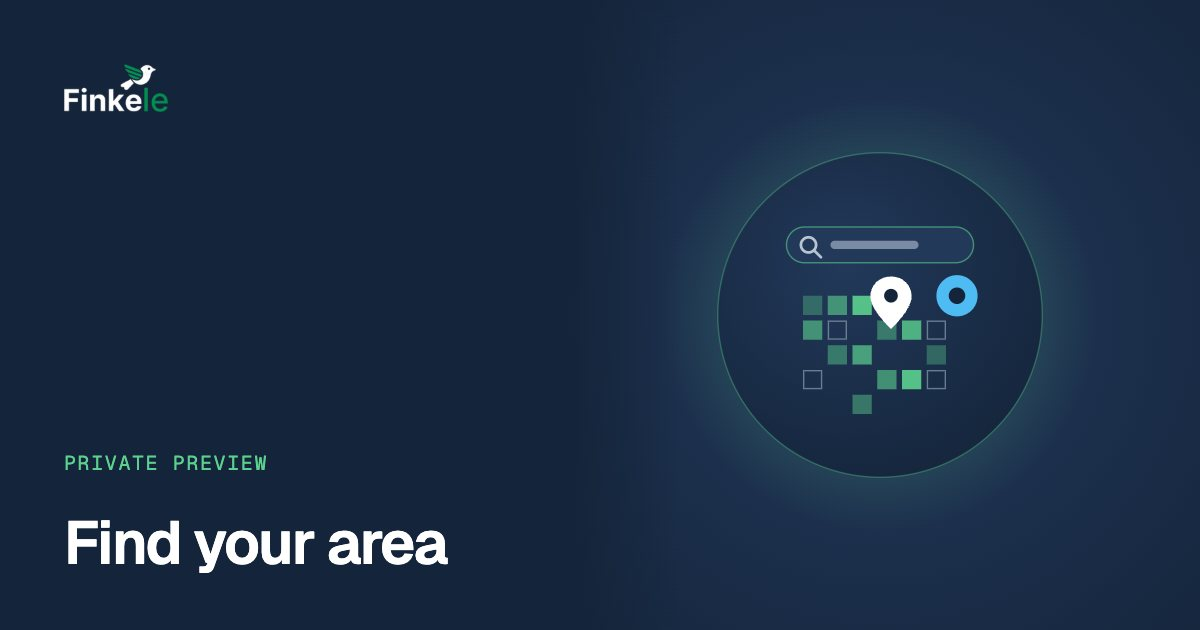
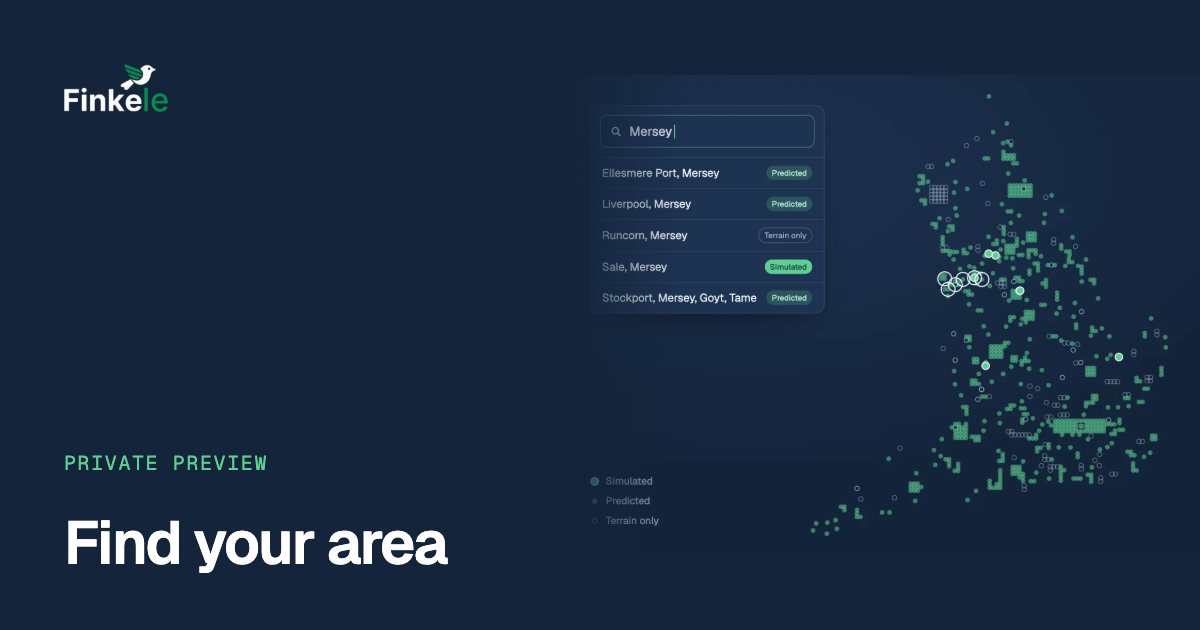
WEB-6: redraw the site illustrations without unsourced figures
tile-api now shows POST /assess with placeholder values. The rainfall
scenarios, live forecasts and AI assistants spots lose their figures; the
API spot shows POST /assess. New tiles for rainfall scenarios (two
Chesterfield solver runs), live forecasts (two Bradford forecast issues),
AI assistants (the MCP reading with placeholders) and find your area
(every registered area by status, no basemap), plus a data-drawn
find-your-area spot. tile-depth-maps and tile-replays use the platform's
depth colours instead of a duotone. Product pages and seven social
images regenerated to match.

diff --git a/public/product/rainfall-scenarios/index.html b/public/product/rainfall-scenarios/index.html
@@ -40,6 +40,7 @@
                 <ul class="nav-links">
                     <li><a href="../../" class="nav-link">Home</a></li>
                     <li><a href="../../#products" class="nav-link is-active" aria-current="true">Products</a></li>
+                    <li><a href="../../#research" class="nav-link">Research</a></li>
                     <li><a href="../../#how" class="nav-link">How it works</a></li>
                     <li><a href="../../#awards" class="nav-link">Awards</a></li>
                     <li><a href="../../#contact" class="nav-link">Contact</a></li>
@@ -73,11 +74,11 @@
                     </div>
                 </div>
                 <figure class="page-visual">
-                    <div class="product-media product-media--spot">
-                        <img src="../../assets/img/visuals/spot-rainfall-scenarios.svg" alt="A chart of peak depth at one place against the rainfall multiple, from 0.2 to 6 times: each dot a solver run, rising as the rain increases." width="320" height="320" fetchpriority="high" decoding="async">
+                    <div class="product-media is-final">
+                        <img src="../../assets/img/visuals/tile-rainfall-scenarios.webp" alt="Two maps of the same square of ground side by side under a rainfall slider: with less rain, thin blue lines of water; with more rain, most of the square under water, darker blue where it is deeper." width="1200" height="900" fetchpriority="high" decoding="async">
                     </div>
                     <figcaption>
-                        <p><strong>Illustration.</strong> Peak depth at one cell in Chesterfield across the area's solver runs, against the rainfall multiple. Each dot is one run; the runs also vary the storm's length and timing, so the line has small kinks.</p>
+                        <p><strong>Chesterfield, two of the area's solver runs.</strong> Peak depth over the same square of ground from a run near the bottom of the rainfall range (left) and one near the top (right), drawn in the platform's depth colours. The runs also differ a little in the storm's length and timing.</p>
                         <p class="film-credit">Contains Environment Agency information © Environment Agency and/or database right 2026. Flood simulation: LISFLOOD-FP (LISFLOOD-FP developers).</p>
                     </figcaption>
                 </figure>
@@ -233,6 +234,7 @@
                 <h2 class="footer-heading" id="f-company">Company</h2>
                 <ul role="list">
                     <li><a href="../../#technology">Technology</a></li>
+                    <li><a href="../../research.html">Research</a></li>
                     <li><a href="../../#awards">Awards</a></li>
                     <li><a href="mailto:june.soh@finkele.com?subject=Demo%20Request">Book a demo</a></li>
                     <li><a href="mailto:june.soh@finkele.com">Contact</a></li>

diff --git a/public/product/live-forecasts/index.html b/public/product/live-forecasts/index.html
@@ -40,6 +40,7 @@
                 <ul class="nav-links">
                     <li><a href="../../" class="nav-link">Home</a></li>
                     <li><a href="../../#products" class="nav-link is-active" aria-current="true">Products</a></li>
+                    <li><a href="../../#research" class="nav-link">Research</a></li>
                     <li><a href="../../#how" class="nav-link">How it works</a></li>
                     <li><a href="../../#awards" class="nav-link">Awards</a></li>
                     <li><a href="../../#contact" class="nav-link">Contact</a></li>
@@ -73,11 +74,11 @@
                     </div>
                 </div>
                 <figure class="page-visual">
-                    <div class="product-media product-media--spot">
-                        <img src="../../assets/img/visuals/spot-live-forecasts.svg" alt="Two lines of forecast rainfall building up over time, one from an earlier forecast issue and one from a later one." width="320" height="320" fetchpriority="high" decoding="async">
+                    <div class="product-media is-final">
+                        <img src="../../assets/img/visuals/tile-live-forecasts.webp" alt="A chart of forecast rain building up over two days: a dashed line from an earlier forecast issue and a solid line from a later one, with the later issue's hourly rain as bars and a marker at each issue time." width="1200" height="900" fetchpriority="high" decoding="async">
                     </div>
                     <figcaption>
-                        <p><strong>Illustration.</strong> The rainfall forecast for Bradford from two issues on 23 October 2026, at 08:00 and 11:00 UTC. A newer issue changes the forecast, which is why each run will show when its rainfall forecast was issued.</p>
+                        <p><strong>Illustration.</strong> Rain building up over two days at Bradford, from two issues of the same forecast on 23 October 2026, at 08:00 and 11:00 UTC. The newer issue changed the forecast, which is why each run will show when its rainfall forecast was issued. Rain, not depth.</p>
                         <p class="film-credit">Rainfall forecast: weather data by Open-Meteo.com, <a href="https://creativecommons.org/licenses/by/4.0/" rel="noopener">CC-BY 4.0</a>.</p>
                     </figcaption>
                 </figure>
@@ -236,6 +237,7 @@
                 <h2 class="footer-heading" id="f-company">Company</h2>
                 <ul role="list">
                     <li><a href="../../#technology">Technology</a></li>
+                    <li><a href="../../research.html">Research</a></li>
                     <li><a href="../../#awards">Awards</a></li>
                     <li><a href="mailto:june.soh@finkele.com?subject=Demo%20Request">Book a demo</a></li>
                     <li><a href="mailto:june.soh@finkele.com">Contact</a></li>

diff --git a/public/product/flood-depth-maps/index.html b/public/product/flood-depth-maps/index.html
@@ -40,6 +40,7 @@
                 <ul class="nav-links">
                     <li><a href="../../" class="nav-link">Home</a></li>
                     <li><a href="../../#products" class="nav-link is-active" aria-current="true">Products</a></li>
+                    <li><a href="../../#research" class="nav-link">Research</a></li>
                     <li><a href="../../#how" class="nav-link">How it works</a></li>
                     <li><a href="../../#awards" class="nav-link">Awards</a></li>
                     <li><a href="../../#contact" class="nav-link">Contact</a></li>
@@ -74,10 +75,10 @@
                 </div>
                 <figure class="page-visual">
                     <div class="product-media is-final">
-                        <img src="../../assets/img/visuals/tile-depth-maps.webp" alt="A map of Exeter city centre in dark blue, with water in lighter blue along the river and through the streets." width="1200" height="900" fetchpriority="high" decoding="async">
+                        <img src="../../assets/img/visuals/tile-depth-maps.webp" alt="A map of Exeter city centre on pale grey ground with grey buildings, water in blue along the river and through the streets, darker where it is deeper." width="1200" height="900" fetchpriority="high" decoding="async">
                     </div>
                     <figcaption>
-                        <p><strong>Illustration.</strong> Water depth in Exeter city centre at 14:15 on 17 September 2023, from one LISFLOOD-FP solver run, drawn in the map's style: lighter for shallow water, darker for deep. A delivered map is the model's peak depth for your area.</p>
+                        <p><strong>Illustration.</strong> Water depth in Exeter city centre at 14:15 on 17 September 2023, from one LISFLOOD-FP solver run, drawn in the platform's depth colours: lighter blue for shallow water, darker for deep. A delivered map is the model's peak depth for your area.</p>
                         <p class="film-credit">Contains Environment Agency information © Environment Agency and/or database right 2026. Contains OS data © Crown copyright and database right 2026. Flood simulation: LISFLOOD-FP (LISFLOOD-FP developers).</p>
                     </figcaption>
                 </figure>
@@ -248,6 +249,7 @@
                 <h2 class="footer-heading" id="f-company">Company</h2>
                 <ul role="list">
                     <li><a href="../../#technology">Technology</a></li>
+                    <li><a href="../../research.html">Research</a></li>
                     <li><a href="../../#awards">Awards</a></li>
                     <li><a href="mailto:june.soh@finkele.com?subject=Demo%20Request">Book a demo</a></li>
                     <li><a href="mailto:june.soh@finkele.com">Contact</a></li>

diff --git a/public/product/ai-assistants/index.html b/public/product/ai-assistants/index.html
@@ -40,6 +40,7 @@
                 <ul class="nav-links">
                     <li><a href="../../" class="nav-link">Home</a></li>
                     <li><a href="../../#products" class="nav-link is-active" aria-current="true">Products</a></li>
+                    <li><a href="../../#research" class="nav-link">Research</a></li>
                     <li><a href="../../#how" class="nav-link">How it works</a></li>
                     <li><a href="../../#awards" class="nav-link">Awards</a></li>
                     <li><a href="../../#contact" class="nav-link">Contact</a></li>
@@ -73,12 +74,11 @@
                     </div>
                 </div>
                 <figure class="page-visual">
-                    <div class="product-media product-media--spot">
-                        <img src="../../assets/img/visuals/spot-ai-assistants.svg" alt="Two speech bubbles: a question, and an answer giving a depth in metres." width="320" height="320" fetchpriority="high" decoding="async">
+                    <div class="product-media is-final">
+                        <img src="../../assets/img/visuals/tile-ai-assistants.webp" alt="A chat: a question about flood depth at a warehouse, the assistant calling the platform's assess tool, and an answer in metres with the figures left as placeholders." width="1200" height="900" fetchpriority="high" decoding="async">
                     </div>
                     <figcaption>
-                        <p><strong>Illustration.</strong> An answer in metres, as an assistant might give it. The depth shown is one cell of the Exeter replay's solver run.</p>
-                        <p class="film-credit">Contains Environment Agency information © Environment Agency and/or database right 2026. Flood simulation: LISFLOOD-FP (LISFLOOD-FP developers).</p>
+                        <p><strong>Illustration.</strong> A question, the call to our API, and the plain-words reading the answer starts with, in the wording our MCP server uses. The figures are placeholders.</p>
                     </figcaption>
                 </figure>
             </div>
@@ -236,6 +236,7 @@
                 <h2 class="footer-heading" id="f-company">Company</h2>
                 <ul role="list">
                     <li><a href="../../#technology">Technology</a></li>
+                    <li><a href="../../research.html">Research</a></li>
                     <li><a href="../../#awards">Awards</a></li>
                     <li><a href="mailto:june.soh@finkele.com?subject=Demo%20Request">Book a demo</a></li>
                     <li><a href="mailto:june.soh@finkele.com">Contact</a></li>

diff --git a/public/product/find-your-area/index.html b/public/product/find-your-area/index.html
@@ -40,6 +40,7 @@
                 <ul class="nav-links">
                     <li><a href="../../" class="nav-link">Home</a></li>
                     <li><a href="../../#products" class="nav-link is-active" aria-current="true">Products</a></li>
+                    <li><a href="../../#research" class="nav-link">Research</a></li>
                     <li><a href="../../#how" class="nav-link">How it works</a></li>
                     <li><a href="../../#awards" class="nav-link">Awards</a></li>
                     <li><a href="../../#contact" class="nav-link">Contact</a></li>
@@ -73,11 +74,11 @@
                     </div>
                 </div>
                 <figure class="page-visual">
-                    <div class="product-media product-media--spot">
-                        <img src="../../assets/img/visuals/spot-find-your-area.svg" alt="A search box above a map of small green squares, with a pin and a cluster marker." width="320" height="320" fetchpriority="high" decoding="async">
+                    <div class="product-media is-final">
+                        <img src="../../assets/img/visuals/tile-find-your-area.webp" alt="A search for Mersey listing areas along the river, each with its status, beside a map of England drawn only from dots, one for each registered area." width="1200" height="900" fetchpriority="high" decoding="async">
                     </div>
                     <figcaption>
-                        <p><strong>Stand-in illustration.</strong> A search box, areas as squares and a cluster on the coverage map. Schematic, not data.</p>
+                        <p><strong>Every registered area, as a dot.</strong> Drawn from each area's registered box, with no basemap, and shaded by its status in a local copy of the platform on 25 October 2026. The search shows the areas whose names include Mersey.</p>
                     </figcaption>
                 </figure>
             </div>
@@ -234,6 +235,7 @@
                 <h2 class="footer-heading" id="f-company">Company</h2>
                 <ul role="list">
                     <li><a href="../../#technology">Technology</a></li>
+                    <li><a href="../../research.html">Research</a></li>
                     <li><a href="../../#awards">Awards</a></li>
                     <li><a href="mailto:june.soh@finkele.com?subject=Demo%20Request">Book a demo</a></li>
                     <li><a href="mailto:june.soh@finkele.com">Contact</a></li>

diff --git a/public/product/api/index.html b/public/product/api/index.html
@@ -40,6 +40,7 @@
                 <ul class="nav-links">
                     <li><a href="../../" class="nav-link">Home</a></li>
                     <li><a href="../../#products" class="nav-link is-active" aria-current="true">Products</a></li>
+                    <li><a href="../../#research" class="nav-link">Research</a></li>
                     <li><a href="../../#how" class="nav-link">How it works</a></li>
                     <li><a href="../../#awards" class="nav-link">Awards</a></li>
                     <li><a href="../../#contact" class="nav-link">Contact</a></li>
@@ -74,10 +75,10 @@
                 </div>
                 <figure class="page-visual">
                     <div class="product-media is-final">
-                        <img src="../../assets/img/visuals/tile-api.webp" alt="Monospaced text on dark blue: a request to the platform API and the start of its JSON response." width="1200" height="900" fetchpriority="high" decoding="async">
+                        <img src="../../assets/img/visuals/tile-api.webp" alt="Monospaced text on dark blue: a POST /assess request for one location, and the abridged JSON response with its depth, band and evidence fields left as placeholders." width="1200" height="900" fetchpriority="high" decoding="async">
                     </div>
                     <figcaption>
-                        <p><strong>Illustration.</strong> A replay listing from the platform API, drawn as an image.</p>
+                        <p><strong>Illustration.</strong> A <code>POST /assess</code> request and its response, abridged. The field names are the platform's own; the values are placeholders.</p>
                     </figcaption>
                 </figure>
             </div>
@@ -297,6 +298,7 @@ Content-Type: application/json
                 <h2 class="footer-heading" id="f-company">Company</h2>
                 <ul role="list">
                     <li><a href="../../#technology">Technology</a></li>
+                    <li><a href="../../research.html">Research</a></li>
                     <li><a href="../../#awards">Awards</a></li>
                     <li><a href="mailto:june.soh@finkele.com?subject=Demo%20Request">Book a demo</a></li>
                     <li><a href="mailto:june.soh@finkele.com">Contact</a></li>
